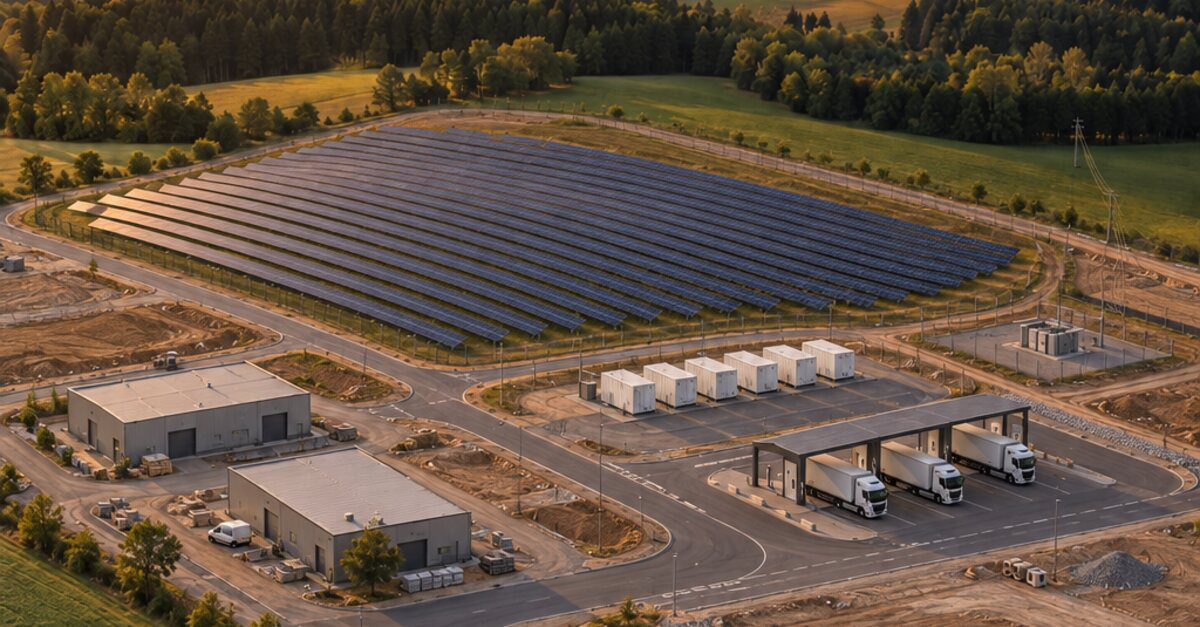
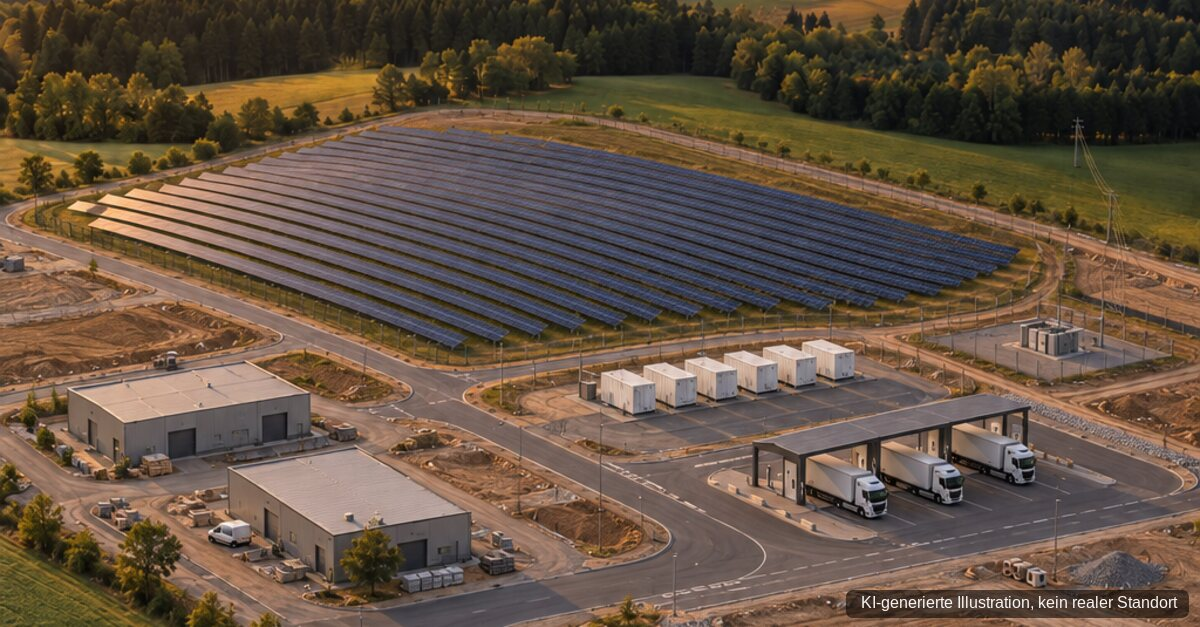
White-Paper-Seite: Zielgruppe, Kennzahl, Autorenprofile, ruhigere Typografie
- Teaser nennt die Bezugsgröße (19 statt 4,5 ct/kWh in der Modellrechnung)
- Zeile, für wen das Papier ist
- Autorenkarten mit den Partnertexten aus dem Papier und Mail-Link je Autor
- kleinere Schriftgrade, besserer Kontrast im Teaser
- Handy: Download-Button direkt unter dem Untertitel, kompakter Cookie-Hinweis
- Vorschaubild trägt den Hinweis auf die KI-Illustration

Claude-Session: https://claude.ai/code/session_01EYDSN9e4jxrmGMruDfrtr5

Changed region(s): [[0.6783, 0.9394, 1.0, 1.0]]

diff --git a/whitepaper.html b/whitepaper.html
@@ -13,7 +13,7 @@
   <meta property="og:site_name" content="Kodnyx" />
   <meta property="og:url" content="https://kodnyx.com/whitepaper" />
   <meta property="og:title" content="Einspeisen oder verkaufen: 8 MWp hinter einem 1,4-MW-Netzanschluss" />
-  <meta property="og:description" content="Muss man warten oder kleiner bauen? Das White Paper zeigt am Beispiel: Wer den Strom vor Ort verkauft, erlöst ein Vielfaches der Einspeisung. Ein gemeinsames Papier von HyperSys und Kodnyx." />
+  <meta property="og:description" content="Muss man warten oder kleiner bauen? Das White Paper zeigt am Beispiel: Wer den Strom vor Ort verkauft, erlöst rund das Vierfache der Einspeisung. Ein gemeinsames Papier von HyperSys und Kodnyx." />
   <meta property="og:image" content="https://kodnyx.com/assets/whitepaper/og-1200x627.jpg" />
   <meta property="og:image:width" content="1200" />
   <meta property="og:image:height" content="627" />
@@ -81,20 +81,21 @@
     text-transform: uppercase; color: var(--teal-light);
   }
   .wp-hero h1 {
-    font-size: clamp(36px, 5.4vw, 56px); font-weight: 800;
+    font-size: clamp(32px, 4.4vw, 46px); font-weight: 800;
     letter-spacing: -0.02em; color: var(--teal); margin: 12px 0 16px;
   }
   .wp-sub {
-    font-size: 19px; font-weight: 600; color: var(--ink); line-height: 1.45;
+    font-size: 17px; font-weight: 600; color: var(--ink); line-height: 1.5;
     max-width: 620px;
   }
-  .wp-teaser { margin-top: 22px; color: var(--ink-mid); font-size: 17px; max-width: 620px; }
+  .wp-teaser { margin-top: 20px; color: var(--ink); font-size: 16px; max-width: 620px; }
+  .wp-for { margin-top: 14px; color: var(--ink-mid); font-size: 14.5px; max-width: 620px; }
 
   .dl { margin-top: 32px; display: flex; flex-wrap: wrap; align-items: center; gap: 12px 18px; }
   .btn-dl {
     display: inline-flex; align-items: center; gap: 10px;
     background: var(--teal); color: #fff; text-decoration: none;
-    font-weight: 700; font-size: 16px; padding: 15px 26px; border-radius: 6px;
+    font-weight: 700; font-size: 15.5px; padding: 14px 24px; border-radius: 6px;
   }
   .btn-dl:hover { filter: brightness(1.15); }
   .btn-dl svg { width: 18px; height: 18px; flex: none; }
@@ -111,7 +112,7 @@
   /* authors */
   .authors { padding: 72px 0 80px; }
   .authors h2 {
-    font-size: clamp(24px, 3.2vw, 30px); font-weight: 800;
+    font-size: clamp(22px, 2.8vw, 26px); font-weight: 800;
     letter-spacing: -0.015em; color: var(--teal); margin: 10px 0 28px;
   }
   .author-grid { display: grid; grid-template-columns: 1fr 1fr; gap: 20px; }
@@ -120,13 +121,18 @@
     display: flex; flex-direction: column; gap: 22px;
   }
   .author-logo { height: 72px; display: flex; align-items: center; }
-  .author-logo img { height: 44px; width: auto; display: block; }
+  .author-logo img { height: 40px; width: auto; display: block; }
   .author-logo img.kx { height: 72px; margin-left: -6px; }
-  .author .nm { font-weight: 700; font-size: 17px; }
-  .author .co { color: var(--ink-mid); font-size: 15px; }
+  .author .nm { font-weight: 700; font-size: 16px; }
+  .author .co { color: var(--ink-mid); font-size: 14.5px; }
+  .author .about { font-size: 14.5px; color: var(--ink); line-height: 1.6; }
+  .author .mail { margin-top: auto; font-size: 14.5px; }
+  .author .mail a { color: var(--teal); font-weight: 700; text-decoration: none; border-bottom: 2px solid var(--teal-light); padding-bottom: 1px; }
+  .author .mail a:hover { color: var(--teal-light); }
   .author .co a { color: var(--teal); text-decoration: none; border-bottom: 1px solid var(--teal-light); }
   .author .co a:hover { color: var(--teal-light); }
   .authors .dl { margin-top: 40px; }
+  .authors-lead { color: var(--ink-mid); font-size: 15.5px; margin: -14px 0 26px; max-width: 620px; }
 
   footer { background: var(--teal-deep); color: #9FB9B7; padding: 30px 0; font-size: 13.5px; }
   .foot-inner {
@@ -143,7 +149,15 @@
     .wp-hero { padding: calc(var(--nav-h) + 36px) 0 56px; }
     .wp-grid { grid-template-columns: 1fr; gap: 40px; }
     .wp-cover { max-width: 340px; }
-    .wp-sub { font-size: 17.5px; }
+    .wp-sub { font-size: 16px; }
+    /* Handy: Download direkt unter den Untertitel, damit er beim ersten Blick sichtbar ist */
+    .wp-text { display: flex; flex-direction: column; }
+    .wp-text .kicker { order: 1; }
+    .wp-text h1 { order: 2; }
+    .wp-text .wp-sub { order: 3; }
+    .wp-text .dl { order: 4; margin-top: 22px; }
+    .wp-text .wp-teaser { order: 5; margin-top: 28px; }
+    .wp-text .wp-for { order: 6; }
     .author-grid { grid-template-columns: 1fr; }
     .authors { padding: 56px 0 64px; }
   }
@@ -177,6 +191,13 @@
     font: 600 13px var(--font); cursor: pointer;
   }
   .cookie-decline:hover { color: #fff; border-color: #fff; }
+  @media (max-width: 600px) {
+    #cookie-banner { padding: 10px 16px; }
+    .cookie-inner { gap: 8px 12px; }
+    .cookie-inner p { font-size: 12px; min-width: 0; flex-basis: 100%; }
+    .cookie-btns { gap: 8px; }
+    .cookie-accept, .cookie-decline { padding: 7px 14px; font-size: 12.5px; }
+  }
 </style>
   <link rel="icon" type="image/png" href="assets/favicon.png" />
   <link rel="apple-touch-icon" href="assets/apple-touch-icon.png" />
@@ -197,17 +218,18 @@
 <main>
   <header class="wp-hero">
     <div class="wrap wp-grid">
-      <div>
+      <div class="wp-text">
         <div class="kicker">White Paper · November 2026</div>
         <h1>Einspeisen oder verkaufen</h1>
         <p class="wp-sub">8&nbsp;MWp hinter einem 1,4-MW-Netzanschluss: warum die Auswahl der Abnehmer über Erlös, Anschluss und Elektroarchitektur zugleich entscheidet</p>
-        <p class="wp-teaser">Ein Energiepark mit 8&nbsp;MWp Photovoltaik und nur 1,4&nbsp;MW Netzanschluss. Muss man warten oder kleiner bauen? Das White Paper zeigt am Beispiel: Wer den Strom vor Ort verkauft, erlöst ein Vielfaches der Einspeisung, und das Lastprofil der Abnehmer entscheidet über Anschluss und Architektur. Ein gemeinsames Papier von HyperSys und Kodnyx.</p>
+        <p class="wp-teaser">Ein Energiepark mit 8&nbsp;MWp Photovoltaik und nur 1,4&nbsp;MW Netzanschluss. Muss man warten oder kleiner bauen? Das White Paper zeigt am Beispiel: Wer den Strom vor Ort verkauft, erlöst rund das Vierfache der Einspeisung (in der Modellrechnung 19 statt 4,5&nbsp;ct/kWh), und das Lastprofil der Abnehmer entscheidet über Anschluss und Elektroarchitektur. Ein gemeinsames Papier von HyperSys und Kodnyx.</p>
+        <p class="wp-for">Für Projektentwickler, EPCs, Anbieter von Ladeinfrastruktur und Betreiber von Gewerbe- und Depotflächen.</p>
         <div class="dl">
           <a class="btn-dl js-pdf" href="https://files.kodnyx.com/whitepaper/einspeisen-oder-verkaufen.pdf">
             <svg viewBox="0 0 24 24" fill="none" stroke="currentColor" stroke-width="2.2" stroke-linecap="round" stroke-linejoin="round" aria-hidden="true"><path d="M12 3v12"/><path d="m7 10 5 5 5-5"/><path d="M5 21h14"/></svg>
             White Paper herunterladen
           </a>
-          <span class="dl-meta">PDF, 12 Seiten, 3,3&nbsp;MB</span>
+          <span class="dl-meta">PDF, 12 Seiten, 3,3&nbsp;MB, ohne Anmeldung</span>
         </div>
       </div>
       <figure class="wp-cover">
@@ -225,20 +247,25 @@
     <div class="wrap">
       <div class="kicker">Autoren</div>
       <h2>Ein gemeinsames Papier von HyperSys und Kodnyx</h2>
+      <p class="authors-lead">Fragen zum Papier oder zu Ihrem Standort? Schreiben Sie direkt an einen der beiden Autoren.</p>
       <div class="author-grid">
         <div class="author">
-          <div class="author-logo"><img src="assets/whitepaper/hypersys.svg" alt="HyperSys" width="191" height="44" /></div>
+          <div class="author-logo"><img src="assets/whitepaper/hypersys.svg" alt="HyperSys" width="174" height="40" /></div>
           <div>
             <div class="nm">Dr. Michael Schmitz</div>
             <div class="co"><a href="https://www.hypersys.de/" target="_blank" rel="noopener">HyperSys GmbH</a></div>
           </div>
+          <p class="about">HyperSys GmbH verfügt über umfassende Kompetenz in den Bereichen Energieversorgungssysteme, Energiewandlung, Energiespeicher, Leistungselektronik und Systemintegration. Das Unternehmen entwickelt und realisiert innovative Lösungen für anspruchsvolle Anwendungen der elektrischen Energieversorgung.</p>
+          <div class="mail"><a class="mail-link" href="https://www.hypersys.de/" data-u="michael.schmitz" data-d="hypersys.de" data-s="White Paper Einspeisen oder verkaufen">E-Mail an Michael Schmitz</a></div>
         </div>
         <div class="author">
           <div class="author-logo"><img class="kx" src="assets/whitepaper/kodnyx.svg" alt="Kodnyx" width="133" height="72" /></div>
           <div>
             <div class="nm">Dr. Kristoffer Möller</div>
-            <div class="co"><a href="/">Kodnyx</a></div>
+            <div class="co"><a href="/">Kodnyx UG (haftungsbeschränkt)</a></div>
           </div>
+          <p class="about">Kodnyx entwickelt digitale Werkzeuge, mit denen sich Energieprojekte früh bewerten lassen: Netzanschluss, Photovoltaik, Speicher und Ladeinfrastruktur, in Wechselstrom-, Gleichstrom- oder Hybridarchitektur. Ziel ist es, Entscheidern in Industrie, Logistik und Mittelstand bereits zu Beginn eines Vorhabens eine fundierte Grundlage zu geben.</p>
+          <div class="mail"><a class="mail-link" href="/" data-u="kristoffer" data-d="kodnyx.com" data-s="White Paper Einspeisen oder verkaufen">E-Mail an Kristoffer Möller</a></div>
         </div>
       </div>
       <div class="dl">
@@ -246,7 +273,7 @@
           <svg viewBox="0 0 24 24" fill="none" stroke="currentColor" stroke-width="2.2" stroke-linecap="round" stroke-linejoin="round" aria-hidden="true"><path d="M12 3v12"/><path d="m7 10 5 5 5-5"/><path d="M5 21h14"/></svg>
           White Paper herunterladen
         </a>
-        <span class="dl-meta">PDF, 12 Seiten, 3,3&nbsp;MB</span>
+        <span class="dl-meta">PDF, 12 Seiten, 3,3&nbsp;MB, ohne Anmeldung</span>
       </div>
     </div>
   </section>
@@ -296,6 +323,13 @@
         u.searchParams.set('via', 'seite');
         a.href = u.toString();
       } catch (e) {}
+    });
+
+    document.querySelectorAll('a.mail-link').forEach(function (a) {
+      var addr = a.getAttribute('data-u') + '@' + a.getAttribute('data-d');
+      var subj = a.getAttribute('data-s');
+      a.href = 'mailto:' + addr + (subj ? '?subject=' + encodeURIComponent(subj) : '');
+      a.removeAttribute('target');
     });
 
     var banner = document.getElementById('cookie-banner');
